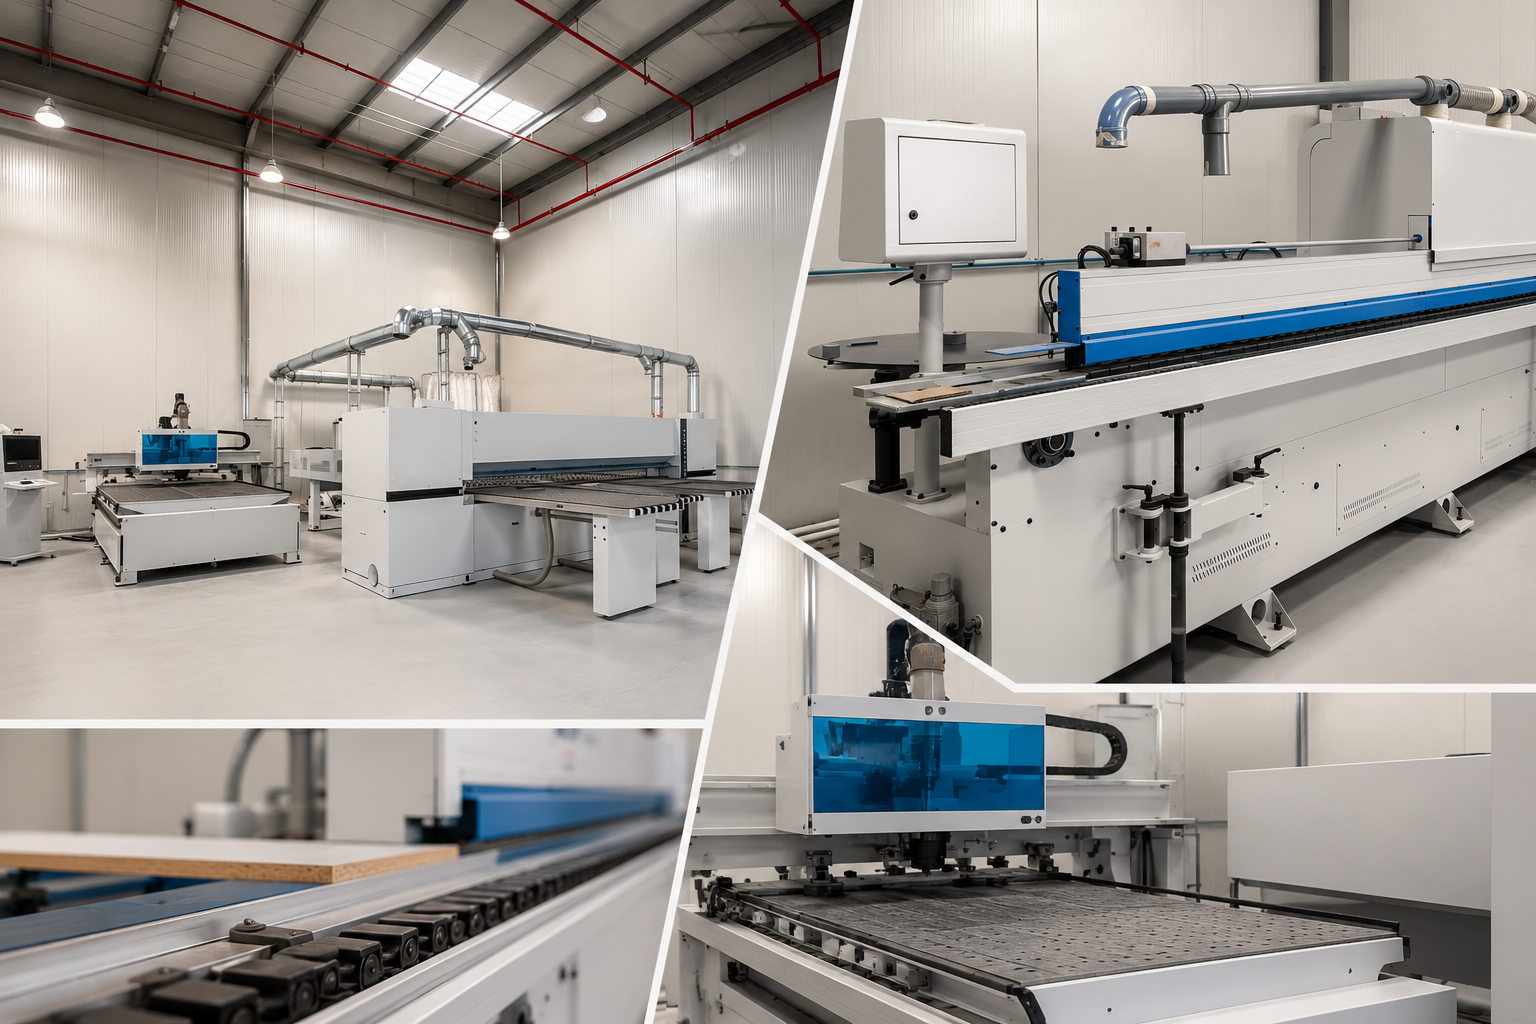
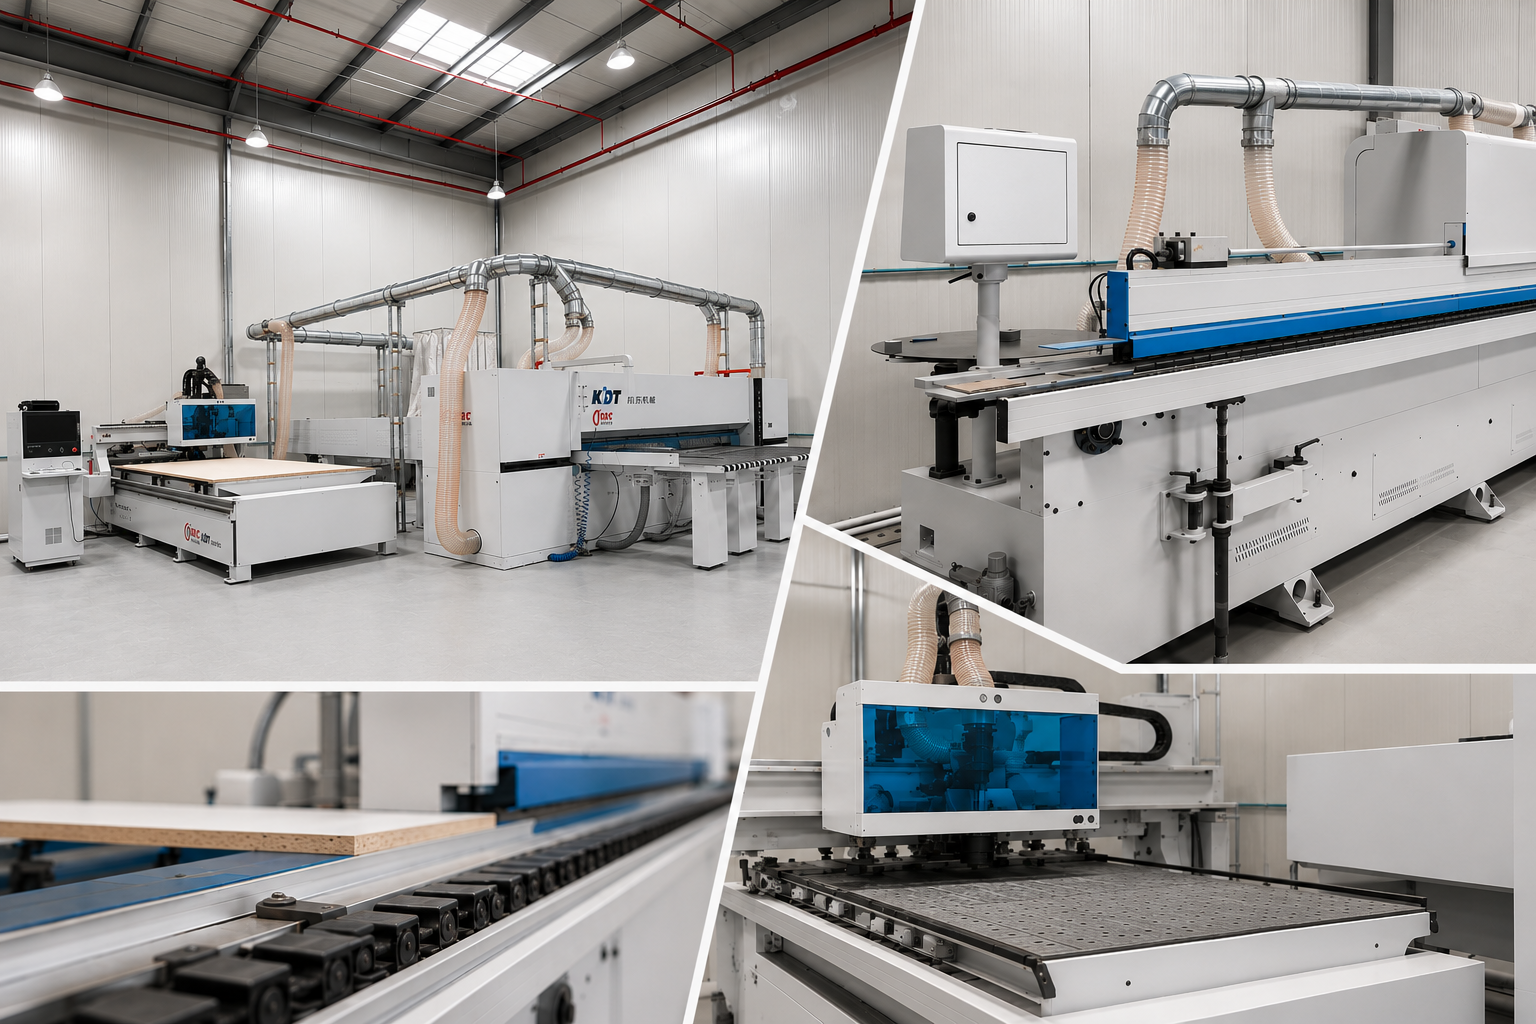
Fixed Photos

diff --git a/src/components/Factory.jsx b/src/components/Factory.jsx
@@ -6,7 +6,7 @@ import { useTranslation } from 'react-i18next'
 const factoryImages = [
   '/images/factory/cncnesting.png',
   '/images/factory/panelsaw.png',
-  '/images/factory/workshoponly.jpeg',
+  '/images/factory/workshoponly.png',
   '/images/factory/edgebander.png',
   '/images/factory/cut.png',
   '/images/factory/cabinet.png',
